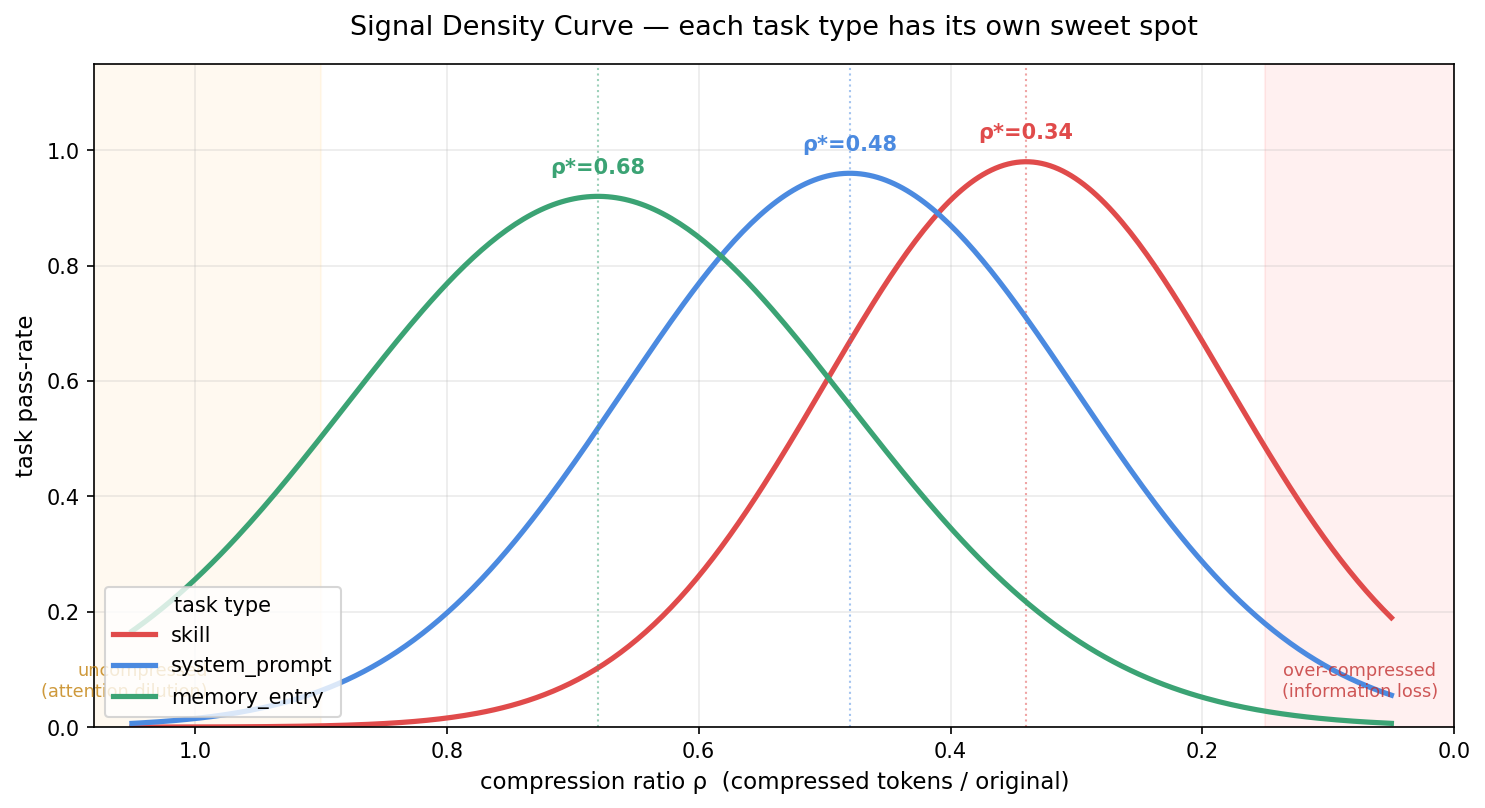
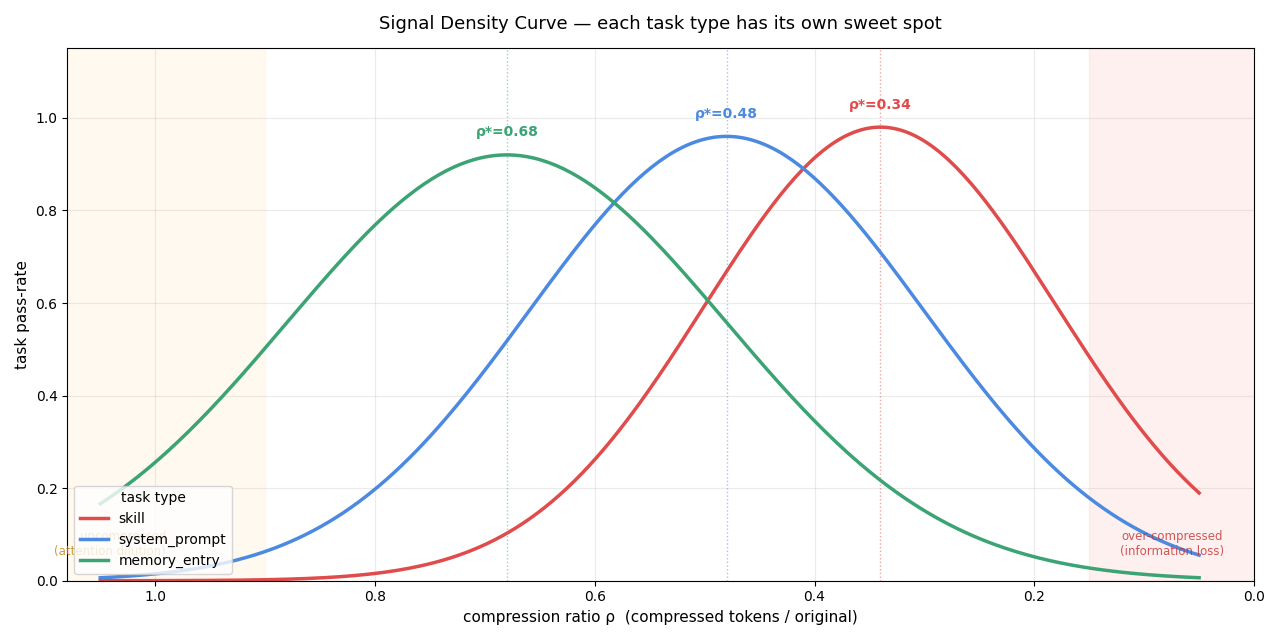
hero: render at exactly 1280x640 for GitHub social preview
- figsize=(12.8, 6.4) at dpi=100 → 1280x640 exactly
- remove bbox_inches='tight' (was cropping dimensions)
- 2:1 aspect ratio matches GitHub's social preview spec

diff --git a/docs/assets/hero.py b/docs/assets/hero.py
@@ -45,7 +45,9 @@ def main() -> None:
         },
     ]
 
-    fig, ax = plt.subplots(figsize=(10, 5.5))
+    # 12.8 x 6.4 inches @ 100 dpi → 1280 x 640 pixels exactly,
+    # which is GitHub's recommended Social preview size (2:1 aspect).
+    fig, ax = plt.subplots(figsize=(12.8, 6.4))
 
     for c in curves:
         y = _curve(x, c["peak"], c["height"], c["width"])
@@ -100,7 +102,9 @@ def main() -> None:
     )
 
     fig.tight_layout()
-    fig.savefig(OUT_PATH, dpi=150, bbox_inches="tight")
+    # Exactly 100 dpi + 12.8×6.4 figsize → 1280×640 pixels, GitHub social preview spec.
+    # Do NOT use bbox_inches="tight" here; that would crop and change dimensions.
+    fig.savefig(OUT_PATH, dpi=100)
     print(f"Wrote {OUT_PATH}")
 
 
